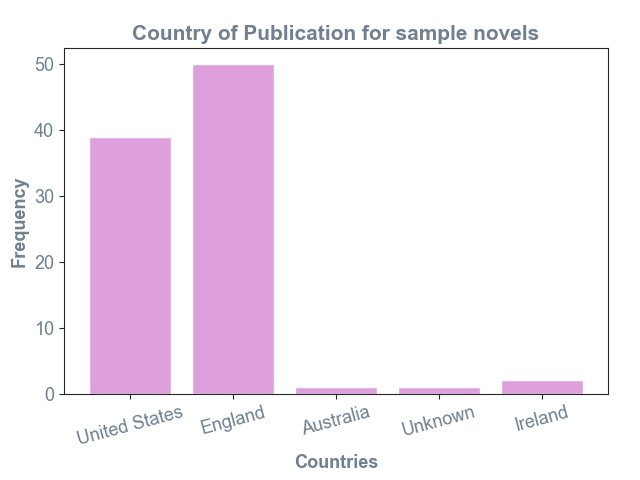
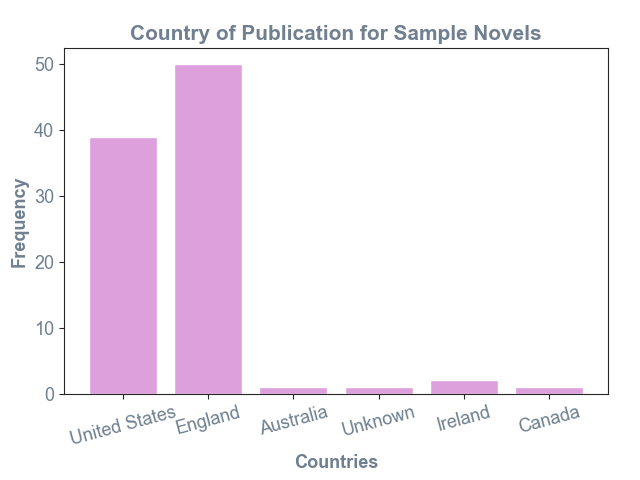
Capitalize title of graph without changing its filename when saved. Created function that calls all plot functions and that function is called under the if __name__ statement

diff --git a/gender_novels/analysis/visualizations/datagraphs_functions.py b/gender_novels/analysis/visualizations/datagraphs_functions.py
@@ -2,7 +2,7 @@ import matplotlib.pyplot as plt
 import seaborn as sns
 from gender_novels.corpus import Corpus
 
-def plt_pubyears(years,name_of_data):
+def plt_pubyears(years,corpus_name):
     '''
     Creates a histogram displaying the frequency of books that were published within a 20 year 
     period
@@ -15,16 +15,16 @@ def plt_pubyears(years,name_of_data):
     plt.hist(years,bins,histtype='bar',rwidth=.8,color='plum')
     plt.xlabel('Year', size=13,weight='bold',color='slategray')
     plt.ylabel('Frequency',size=13,weight='bold',color='slategray')
-    plt.title('Publication Year Concentration for '+name_of_data,size=15,weight='bold',
+    plt.title('Publication Year Concentration for '+corpus_name.title(),size=15,weight='bold',
               color='slategray')
     plt.yticks(size=13,color='slategray')
     plt.xticks([i for i in range(min(years),max(years)+9,10)],size=13,color='slategray')
     for label in ax1.xaxis.get_ticklabels():
         label.set_rotation(60)
     plt.subplots_adjust(left=.1,bottom=.18,right=.95,top=.9)
-    plt.savefig('date_of_pub_for_'+name_of_data+'.png')
+    plt.savefig('date_of_pub_for_'+corpus_name+'.png')
 
-def plt_pubcountries(pub_country,name_of_data):
+def plt_pubcountries(pub_country,corpus_name):
     '''
     Creates a bar graph displaying the frequency of books that were published in each country
     :param pub_country: list
@@ -42,13 +42,14 @@ def plt_pubcountries(pub_country,name_of_data):
     plt.bar(x,y,color='plum')
     plt.xlabel('Countries',size=13,weight='bold',color='slategray')
     plt.ylabel('Frequency',size=13,weight='bold',color='slategray')
-    plt.title('Country of Publication for '+name_of_data,size=15,color='slategray',weight='bold')
+    plt.title('Country of Publication for '+corpus_name.title(),size=15,color='slategray',
+              weight='bold')
     plt.xticks(color='slategray',size=13)
     plt.yticks(color='slategray',size=13)
     plt.subplots_adjust(left=.1,bottom=.18,right=.95,top=.9)
-    plt.savefig('country_of_pub_for_'+name_of_data+'.png')
+    plt.savefig('country_of_pub_for_'+corpus_name+'.png')
 
-def plt_gender_breakdown(pub_gender,name_of_data):
+def plt_gender_breakdown(pub_gender,corpus_name):
     '''
     Creates a pie chart displaying the composition of male and female writers in the data
     :param pub_gender: list
@@ -65,24 +66,31 @@ def plt_gender_breakdown(pub_gender,name_of_data):
     genders=[i for i in gendercount]
     labelgenders=[]
     for i in range(len(genders)):
-        labelgenders.append(genders[i]+': ' + str(round(slices[i],2)*100)+'%')
+        labelgenders.append((genders[i]+': ' + str(round(slices[i],2)*100)+'%').title())
     colors=['slateblue','mediumpurple','plum']
     plt.pie(slices,colors=colors,labels=labelgenders,textprops={'fontsize':15})
-    plt.title('Gender Breakdown for '+name_of_data,size=15,color='slategray',weight='bold')
+    plt.title('Gender Breakdown for '+corpus_name.title(),size=15,color='slategray',weight='bold')
     plt.legend()
     plt.subplots_adjust(left=.1,bottom=.1,right=.9,top=.9)
-    plt.savefig('gender_breakdown_for_'+name_of_data+'.png')
+    plt.savefig('gender_breakdown_for_'+corpus_name+'.png')
 
-if __name__=='__main__':
+def create_corpus_summary_visualizations(corpus_name):
+    '''
+    Runs through all plt functions given a corpus name
+    :param corpus_name: str
+    '''
     pubyears=[]
     pubgender=[]
     pubcountry=[]
-    c = Corpus('sample_novels')
+    c = Corpus(corpus_name)
     for novel in c.novels:
         pubyears.append(novel.date)
         pubgender.append(novel.author_gender)
         pubcountry.append(novel.country_publication)
-    plt_gender_breakdown(pubgender, 'sample novels')
-    plt_pubyears(pubyears,'sample novels')
-    plt_pubcountries(pubcountry,'sample novels')
+    corpus_name=corpus_name.replace('_',' ')
+    plt_gender_breakdown(pubgender, corpus_name)
+    plt_pubyears(pubyears,corpus_name)
+    plt_pubcountries(pubcountry,corpus_name)
 
+if __name__=='__main__':
+    create_corpus_summary_visualizations('sample_novels')
